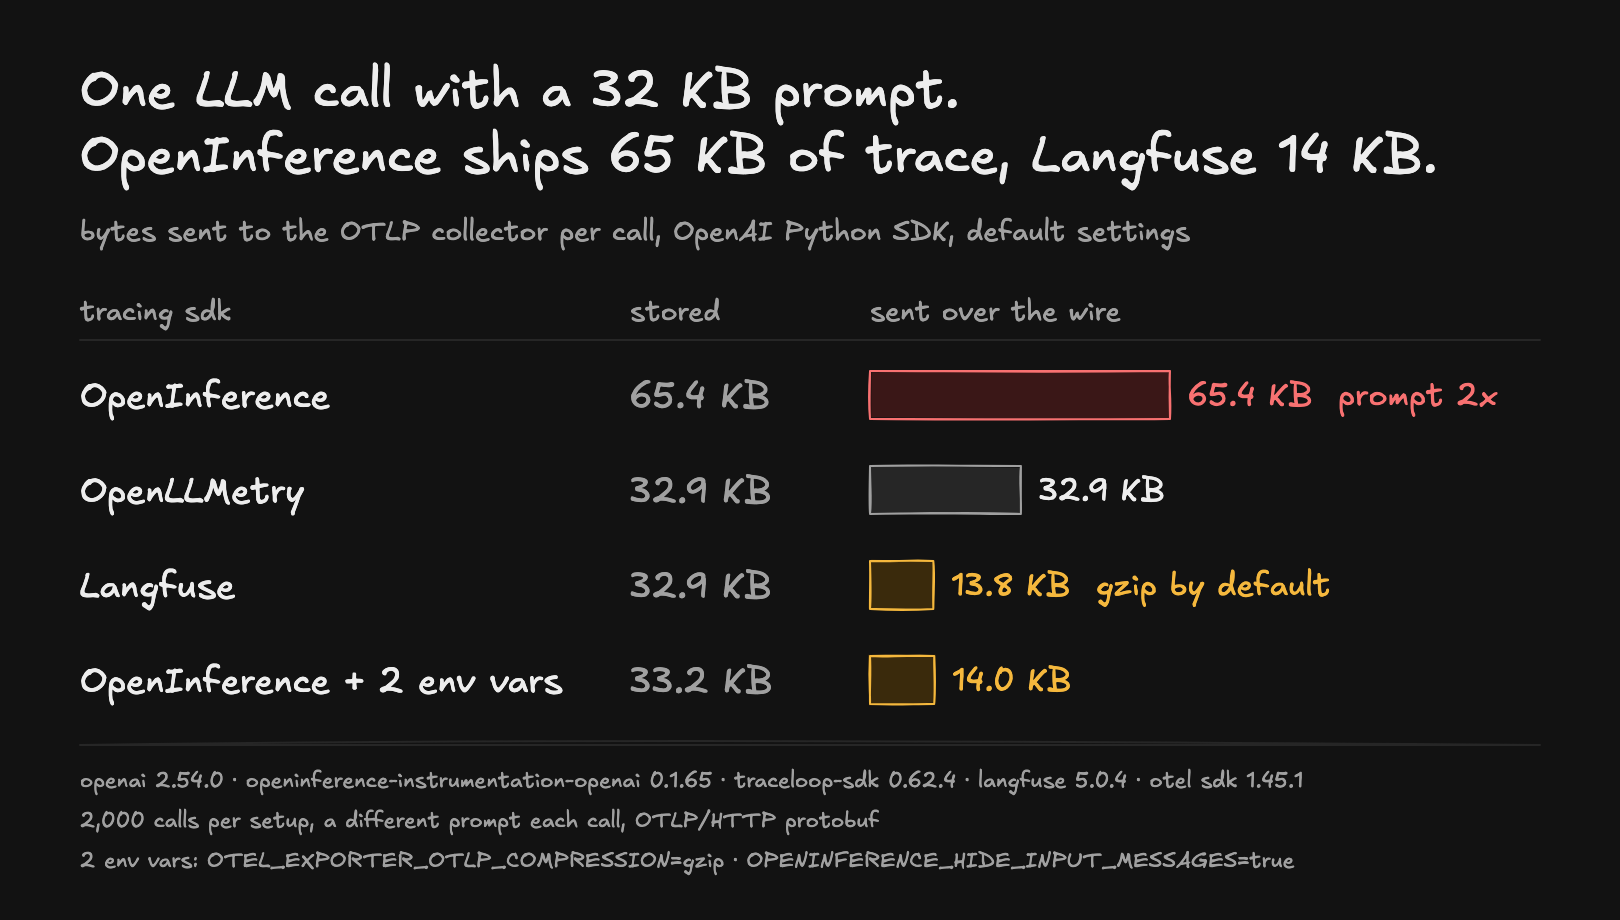
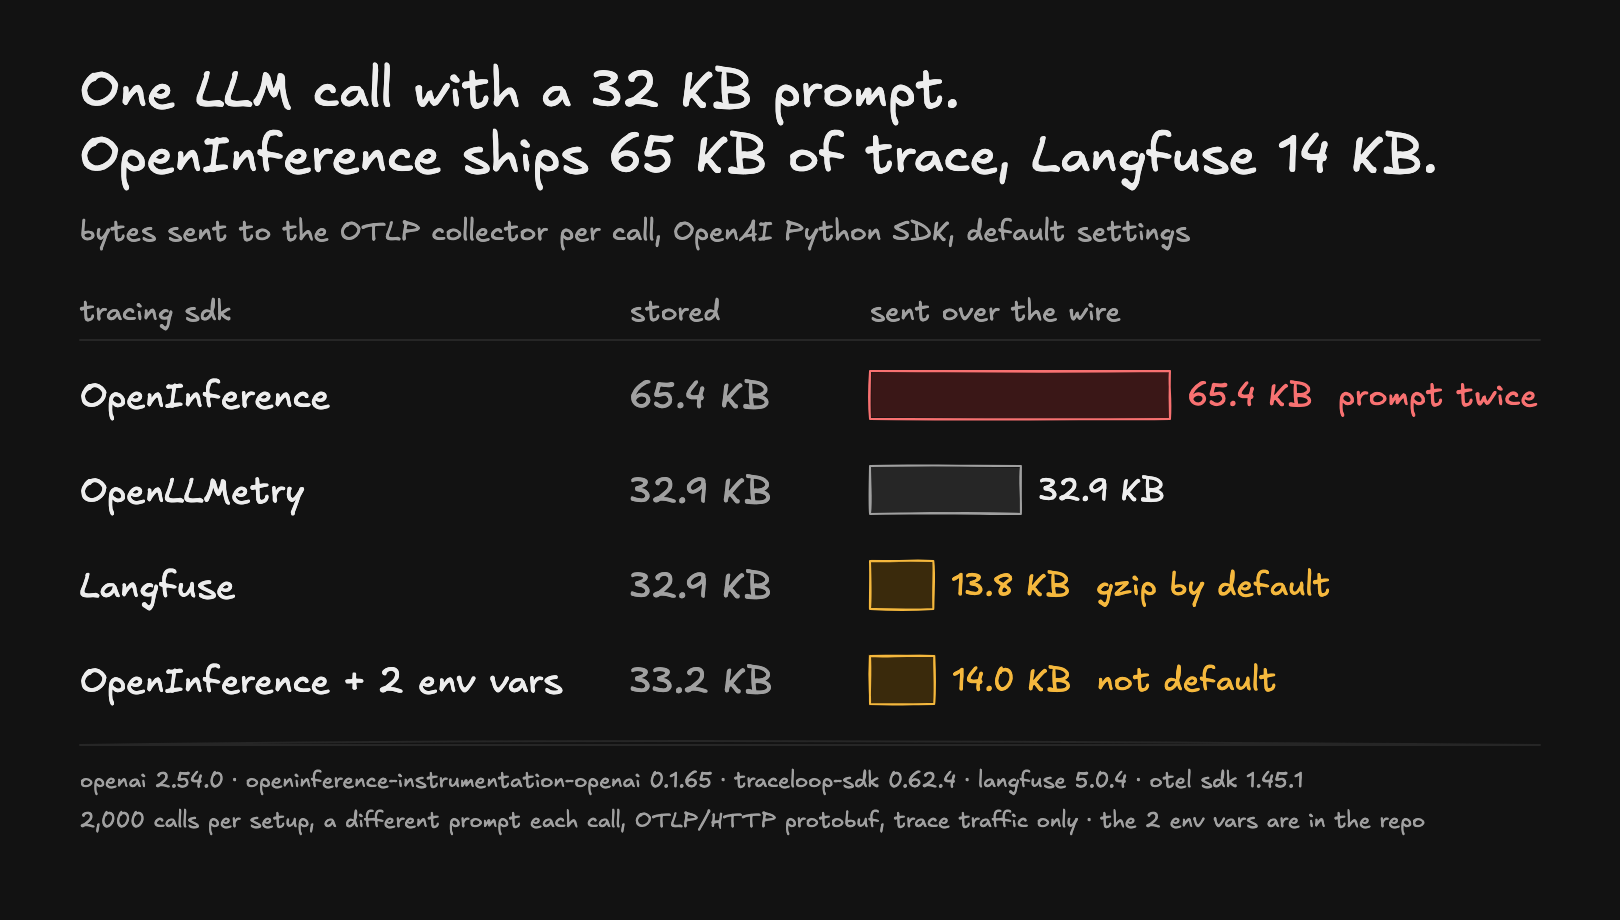
docs(llm-trace-bytes): scope notes, raw results, clearer card

Changed region(s): [[0.0617, 0.8826, 0.8951, 0.9435], [0.679, 0.7304, 0.8025, 0.7609], [0.8951, 0.4261, 0.9568, 0.4565]]

diff --git a/llm-trace-bytes/bench.py b/llm-trace-bytes/bench.py
@@ -61,7 +61,7 @@ def one():
         client.chat.completions.create(model='gpt-mock', messages=messages)
     return time.perf_counter_ns() - s
 
-if os.environ.get('BENCH_FIRST_CALL_ONLY'):  # startup.py: exit right after the first completed call
+if os.environ.get('BENCH_FIRST_CALL_ONLY'):  # exit right after the first completed call (to time startup)
     one(); flush(); sys.exit(0)
 for _ in range(300):  # warm-up
     one()

diff --git a/llm-trace-bytes/README.md b/llm-trace-bytes/README.md
@@ -18,7 +18,7 @@ Bytes per call exported over OTLP/HTTP:
 | OpenLLMetry + `OTEL_EXPORTER_OTLP_COMPRESSION=gzip` | 1.9 KB / 0.6 KB | 32.9 KB / 13.8 KB |
 | Langfuse (gzip by default) | 1.9 KB / 0.55 KB | 32.9 KB / 13.8 KB |
 
-"Stored" is the decompressed body, what a backend keeps; "sent" is what goes over the wire.
+"Stored" is the decompressed body, what a backend keeps; "sent" is what goes over the wire. Only trace traffic is counted: OpenLLMetry also exports metrics by default, but no metrics request reached the receiver during these runs. Bytes per call were identical in every round; [results.jsonl](results.jsonl) has the default-setting rows (5 rounds each), and the rows with environment variables come from one run each.
 
 **Why OpenInference is twice the size:** every SDK creates one span per call, but OpenInference stores the prompt twice, in `input.value` (the whole request JSON) and in `llm.input_messages.*.message.content`. OpenLLMetry keeps it once in `gen_ai.input.messages`, Langfuse once in `langfuse.observation.input`. [decode.py](decode.py) prints the attribute sizes of one exported span.
 
@@ -31,6 +31,7 @@ Bytes per call exported over OTLP/HTTP:
   - Langfuse: `langfuse` 5.0.4, `from langfuse.openai import OpenAI`
 - A different prompt on every call (random words), so gzip ratios look like real prompts rather than repeated text.
 - 2,000 calls per setup.
+- The receiver only counts and drops what it gets; it does not test what each backend does with the data once it arrives.
 
 ## Run it
 

diff --git a/README.md b/README.md
@@ -2,7 +2,7 @@
 
 ![benchmarks](images/banner.png)
 
-Developer tools measured side by side: same machine, same data, each tool's documented settings plus the tuning named in each folder, and the scripts to run it yourself. One question per benchmark, one folder each.
+Developer tools measured side by side: same machine (where a tool runs in a container, the folder says so), same data, each tool's documented settings plus the tuning named in each folder, and the scripts to run it yourself. One question per benchmark, one folder each.
 
 | Benchmark | Question | Result |
 |---|---|---|
